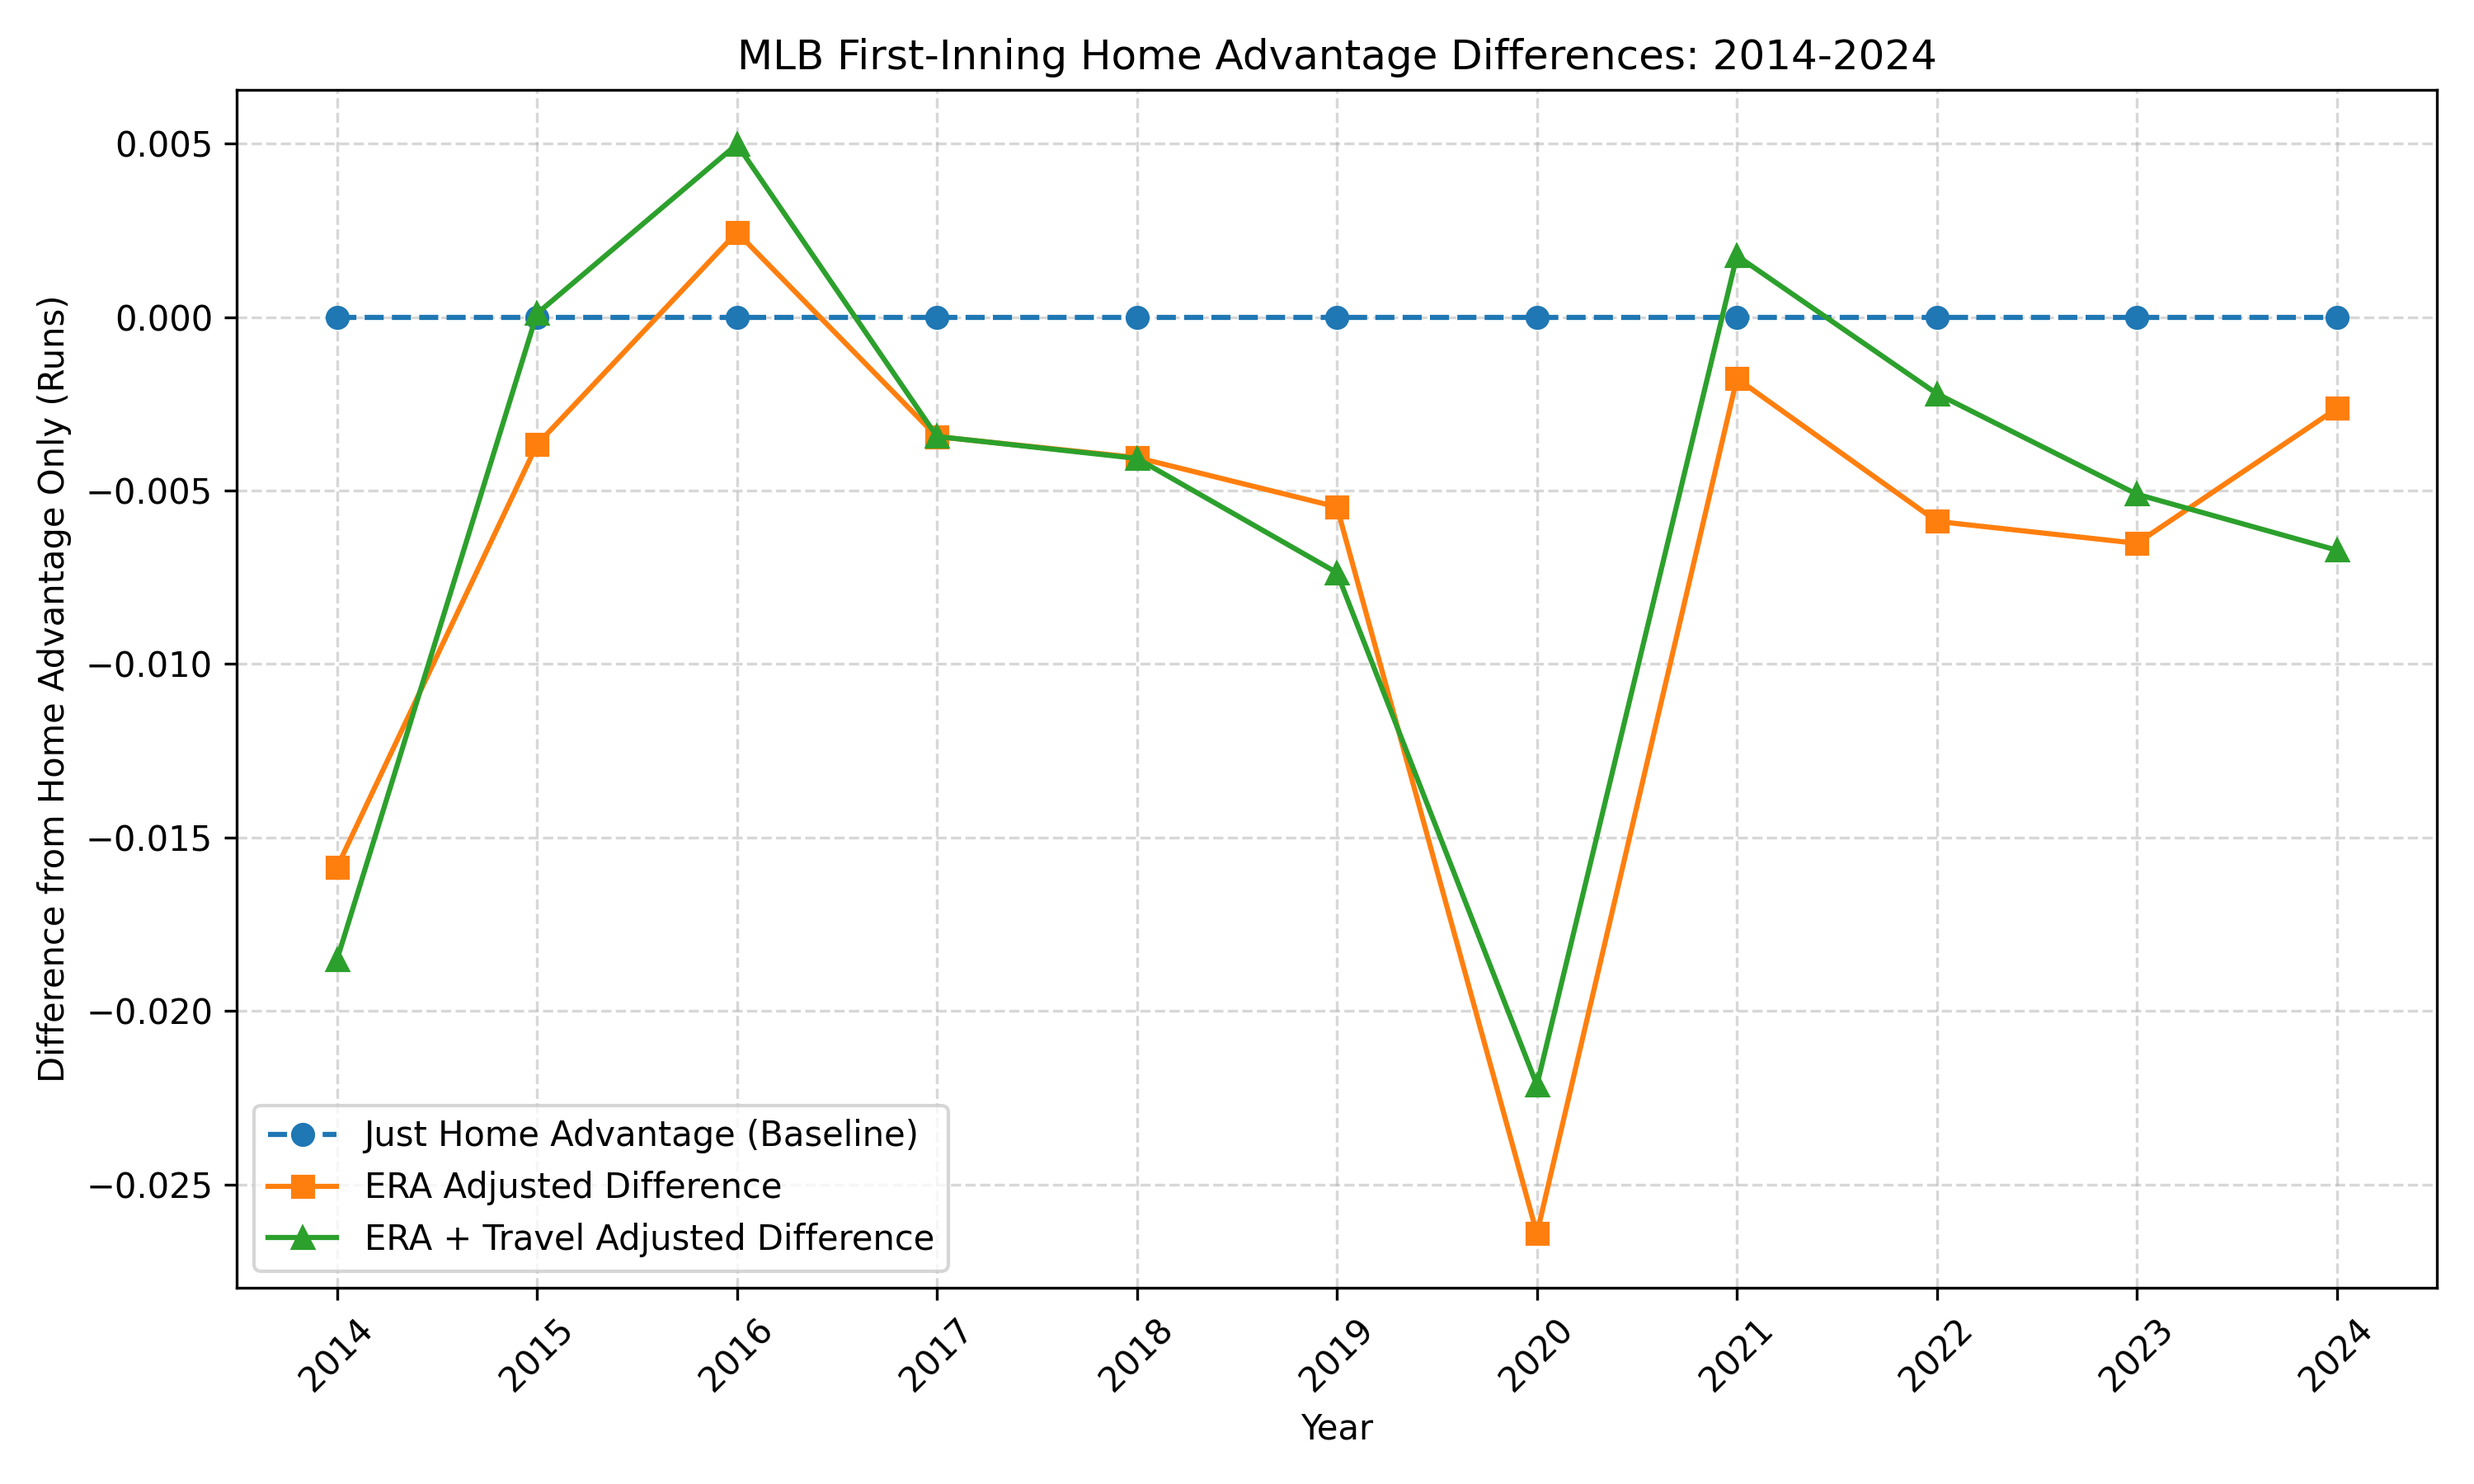
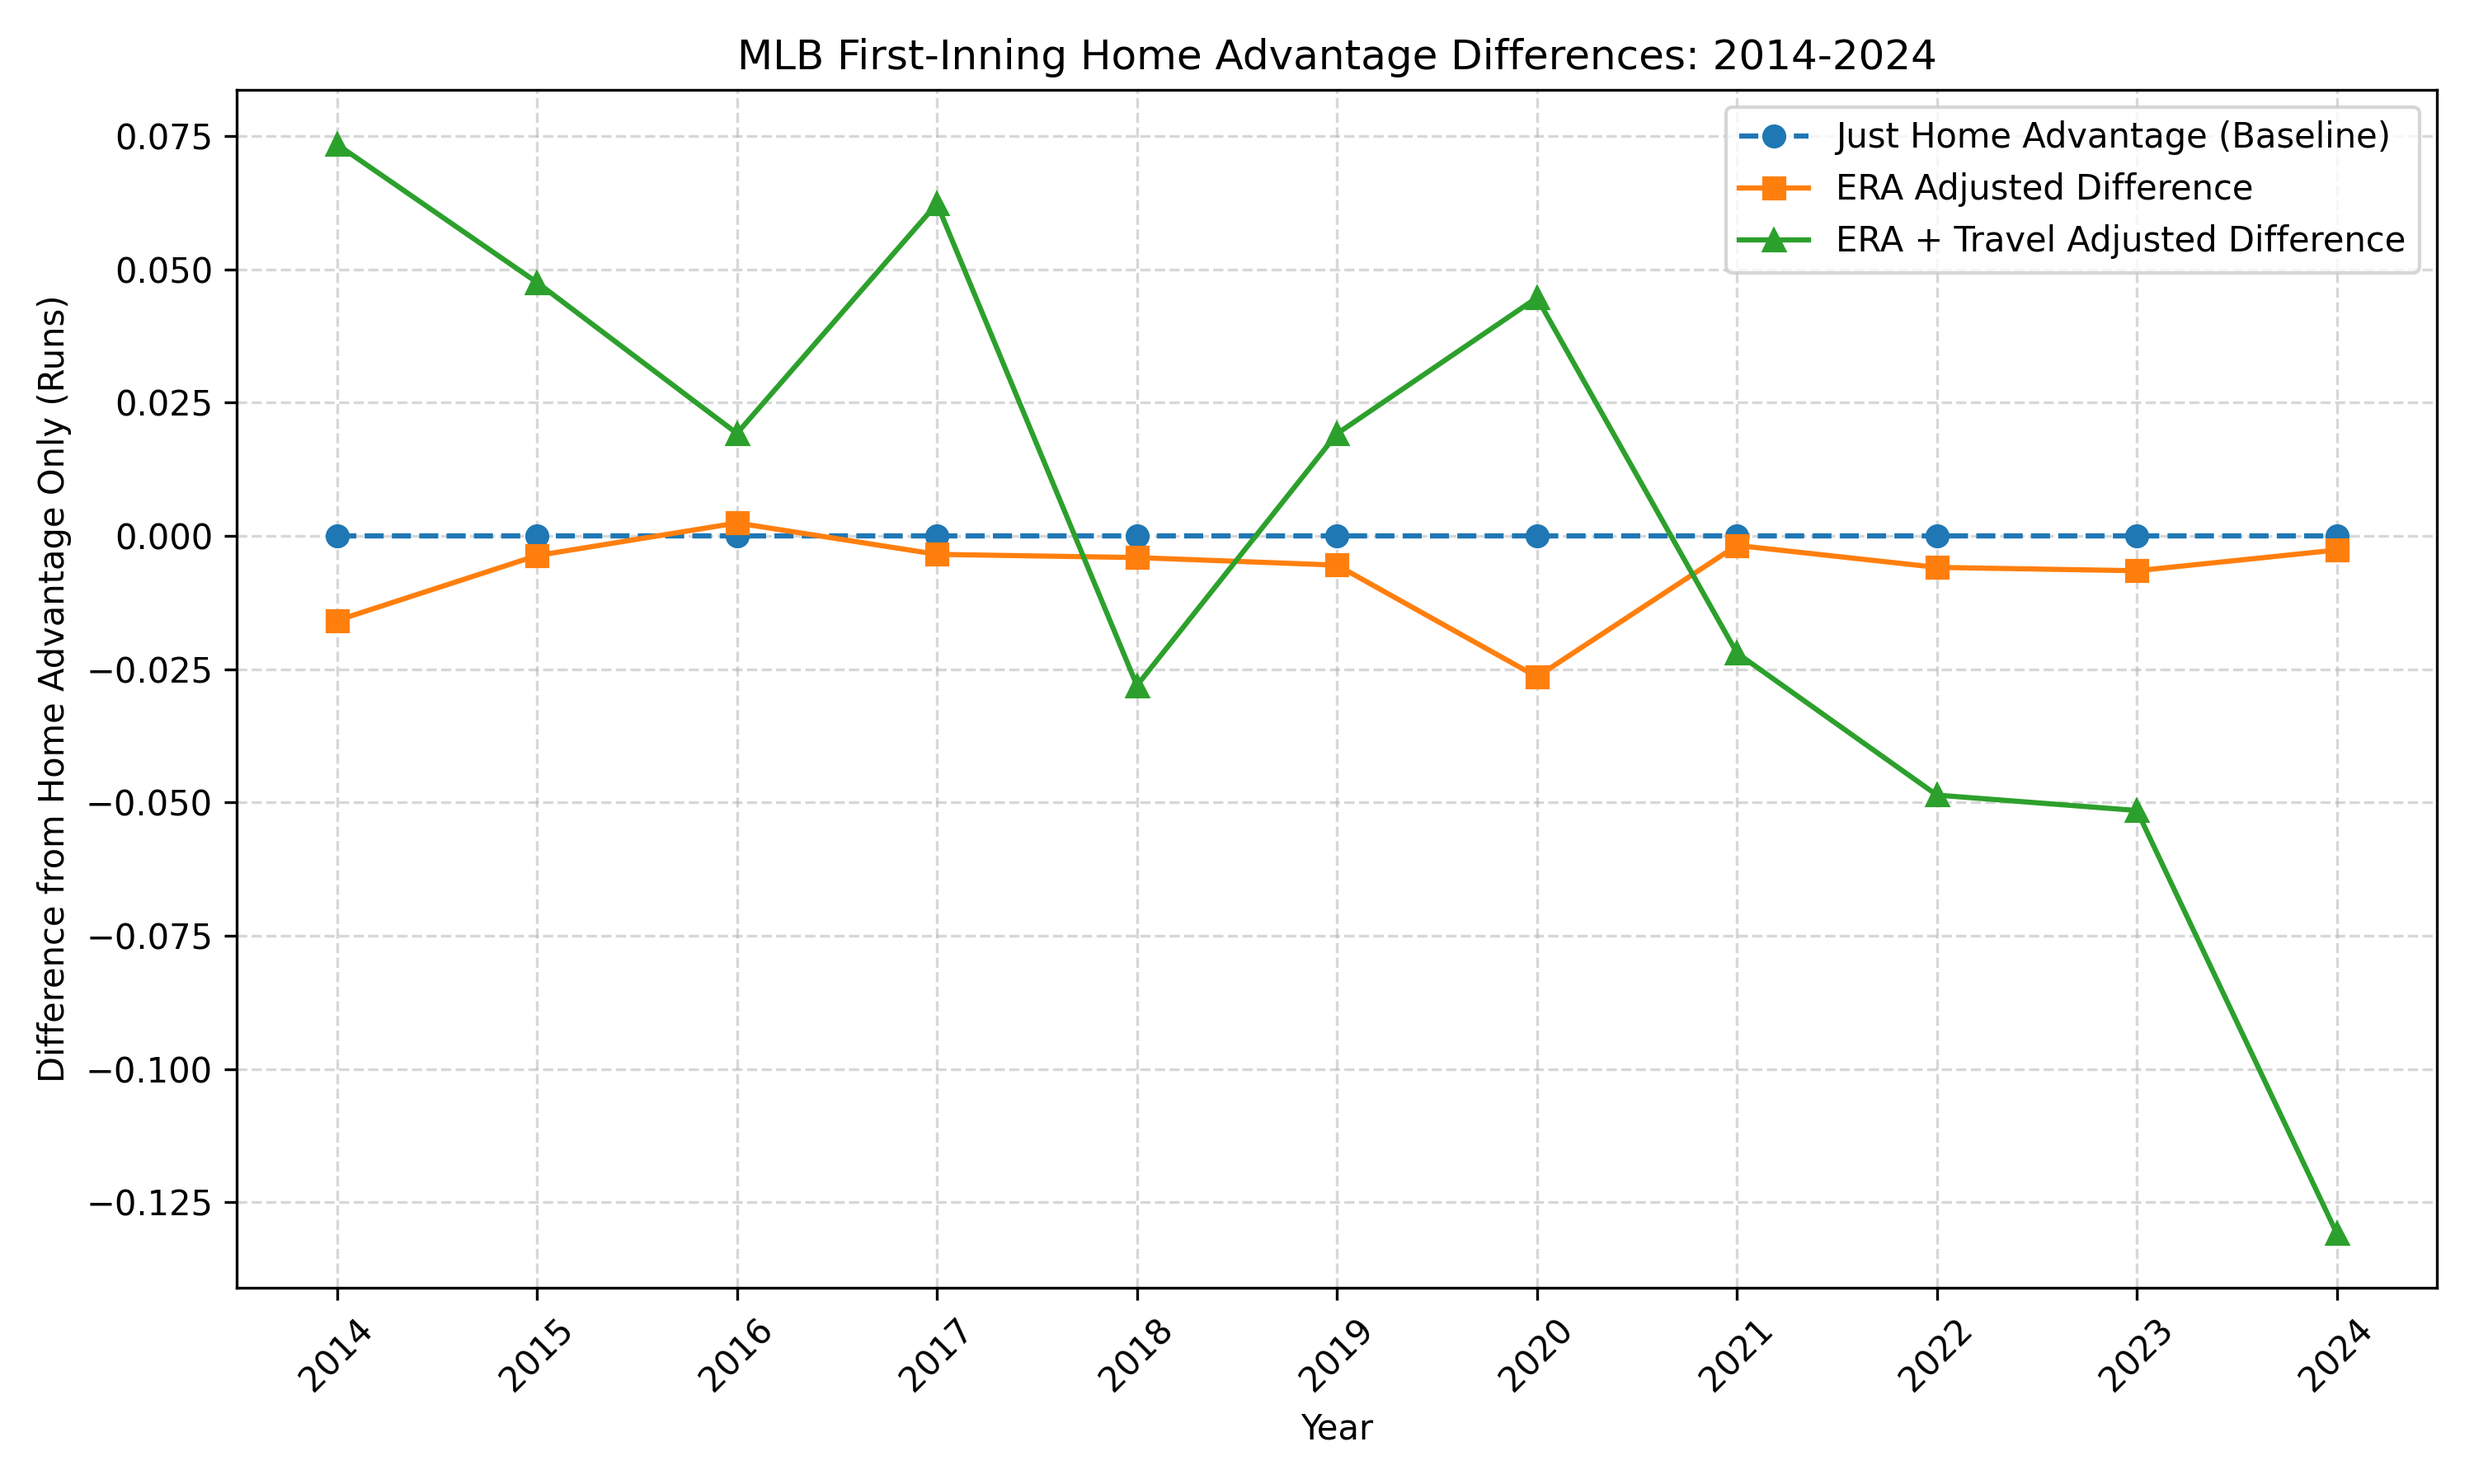
charts w/ just first games

diff --git a/all_in_one.py b/all_in_one.py
@@ -46,7 +46,7 @@ for year in years:
     print(f"\nProcessing {year}")
     games = pd.read_csv(game_file)
 
-    # --- Extract game dates ---
+    # --- Extract and sort by date ---
     games["date"] = games["game_id"].apply(lambda x: pd.to_datetime(x[3:11], format="%Y%m%d"))
     games = games.sort_values("date").reset_index(drop=True)
 
@@ -67,58 +67,87 @@ for year in years:
             games.at[idx, "visiting_last_location"] = last_location[away]
         last_location[away] = home
 
-    # --- Compute travel distances ---
-    home_travel, vis_travel = [], []
+    # --- Compute travel distances (first game of series only) ---
+    home_travel = [0.0]
+    vis_travel = [0.0]
 
-    for _, row in games.iterrows():
-        home_last = row["home_last_location"]
-        vis_last = row["visiting_last_location"]
-        home_team = row["hometeam"]
+    for i in range(1, len(games)):
+        curr = games.iloc[i]
+        prev = games.iloc[i - 1]
 
-        if home_last == "N/A" or vis_last == "N/A":
-            home_travel.append(np.nan)
-            vis_travel.append(np.nan)
-            continue
+        # Detect if this is the first game of a new series:
+        # Different opponent or different home stadium = new series
+        new_series = not (
+            curr["hometeam"] == prev["hometeam"]
+            and curr["visteam"] == prev["visteam"]
+            and curr["hometeam"] == prev["hometeam"]
+        )
 
-        try:
-            lat_home_last = float(stad_dict[home_last]["lat"])
-            lon_home_last = float(stad_dict[home_last]["lon"])
-            lat_home_team = float(stad_dict[home_team]["lat"])
-            lon_home_team = float(stad_dict[home_team]["lon"])
-            home_travel.append(haversine(lat_home_last, lon_home_last, lat_home_team, lon_home_team))
+        if new_series:
+            home_last = curr["home_last_location"]
+            vis_last = curr["visiting_last_location"]
+            home_team = curr["hometeam"]
+            away_team = curr["visteam"]
 
-            lat_vis_last = float(stad_dict[vis_last]["lat"])
-            lon_vis_last = float(stad_dict[vis_last]["lon"])
-            vis_travel.append(haversine(lat_vis_last, lon_vis_last, lat_home_team, lon_home_team))
-        except (KeyError, ValueError):
-            home_travel.append(np.nan)
-            vis_travel.append(np.nan)
+            if home_last == "N/A" or vis_last == "N/A":
+                home_travel.append(np.nan)
+                vis_travel.append(np.nan)
+                continue
 
-    games["home_travel"] = pd.to_numeric(home_travel, errors="coerce") + 1e-6
-    games["vis_travel"] = pd.to_numeric(vis_travel, errors="coerce") + 1e-6
+            try:
+                lat_home_last = float(stad_dict[home_last]["lat"])
+                lon_home_last = float(stad_dict[home_last]["lon"])
+                lat_home_team = float(stad_dict[home_team]["lat"])
+                lon_home_team = float(stad_dict[home_team]["lon"])
+                home_travel.append(haversine(lat_home_last, lon_home_last, lat_home_team, lon_home_team))
 
-    # --- Filter only valid travel rows ---
+                lat_vis_last = float(stad_dict[vis_last]["lat"])
+                lon_vis_last = float(stad_dict[vis_last]["lon"])
+                vis_travel.append(haversine(lat_vis_last, lon_vis_last, lat_home_team, lon_home_team))
+            except (KeyError, ValueError):
+                home_travel.append(np.nan)
+                vis_travel.append(np.nan)
+        else:
+            # Same series — no travel
+            home_travel.append(0.0)
+            vis_travel.append(0.0)
+
+    # --- Assign to DataFrame ---
+    games["home_travel"] = pd.Series(pd.to_numeric(home_travel, errors="coerce")).fillna(0.0)
+    games["vis_travel"] = pd.Series(pd.to_numeric(vis_travel, errors="coerce")).fillna(0.0)
+
+    # --- Log-transform ---
+    games["home_travel_log"] = np.log1p(games["home_travel"])
+    games["vis_travel_log"] = np.log1p(games["vis_travel"])
+
+    # --- Filter only valid travel rows and skip 0.0 both sides ---
     data_filtered = games[
-        ~((games['home_last_location'] == "N/A") | (games['visiting_last_location'] == "N/A"))
+        ~((games["home_last_location"] == "N/A") | (games["visiting_last_location"] == "N/A")) &
+        ~((games["home_travel"] <= 1e-6) & (games["vis_travel"] <= 1e-6))
     ].copy()
 
     # --- Prepare home and away rows ---
-    home_df = data_filtered[['game_id', 'hometeam', 'home_first_inning_runs', 'vis_ERA', 'home_travel']].rename(
-        columns={'hometeam': 'team_id',
-                 'home_first_inning_runs': 'first_inning_runs',
-                 'vis_ERA': 'opp_ERA',
-                 'home_travel': 'travel'}
+    home_df = data_filtered[['game_id', 'hometeam', 'home_first_inning_runs', 'vis_ERA', 'home_travel_log']].rename(
+        columns={
+            'hometeam': 'team_id',
+            'home_first_inning_runs': 'first_inning_runs',
+            'vis_ERA': 'opp_ERA',
+            'home_travel_log': 'travel'
+        }
     )
     home_df['is_home'] = 1
 
-    away_df = data_filtered[['game_id', 'visteam', 'visiting_first_inning_runs', 'home_ERA', 'vis_travel']].rename(
-        columns={'visteam': 'team_id',
-                 'visiting_first_inning_runs': 'first_inning_runs',
-                 'home_ERA': 'opp_ERA',
-                 'vis_travel': 'travel'}
+    away_df = data_filtered[['game_id', 'visteam', 'visiting_first_inning_runs', 'home_ERA', 'vis_travel_log']].rename(
+        columns={
+            'visteam': 'team_id',
+            'visiting_first_inning_runs': 'first_inning_runs',
+            'home_ERA': 'opp_ERA',
+            'vis_travel_log': 'travel'
+        }
     )
     away_df['is_home'] = 0
 
+    # --- Combine ---
     data_nb = pd.concat([home_df, away_df], ignore_index=True)
     data_nb = data_nb.dropna(subset=['first_inning_runs', 'opp_ERA', 'travel'])
 
@@ -134,7 +163,6 @@ for year in years:
         model = NegativeBinomial(y, X)
         result = model.fit(disp=False)
     except:
-        # fallback to Poisson
         poisson_model = sm.GLM(y, X, family=sm.families.Poisson())
         result = poisson_model.fit(cov_type='HC3')
 
@@ -171,6 +199,6 @@ for year in years:
 # --- Save all results ---
 if all_rows:
     pd.DataFrame(all_rows).to_csv(output_file, index=False)
-    print(f"\nAll results saved to {output_file}")
+    print(f"\n Results saved to {output_file}")
 else:
     print("No results to save")

diff --git a/visualize_three.py b/visualize_three.py
@@ -21,47 +21,39 @@ df.rename(columns={
 # Filter 2014-2024 safely
 df_plot = df.loc[(df['year'] >= 2014) & (df['year'] <= 2024)].copy()
 
-# ---------------------
-# Original plot (3 lines)
-# ---------------------
-plt.figure(figsize=(10,6))
-plt.plot(df_plot['year'], df_plot['home_advantage_only'], marker='o', label='Just Home Advantage')
-plt.plot(df_plot['year'], df_plot['home_advantage_era'], marker='s', label='Home Advantage + ERA')
-plt.plot(df_plot['year'], df_plot['home_advantage_era_travel'], marker='^', label='Home Advantage + ERA + Travel')
-
-plt.xlabel("Year")
-plt.ylabel("Estimated Home Advantage (Runs)")
-plt.title("MLB First-Inning Home Advantage: 2014-2024")
-plt.xticks(df_plot['year'], rotation=45)
-plt.grid(True, linestyle='--', alpha=0.5)
-plt.legend()
-plt.tight_layout()
-
-# Save the first plot
-plt.savefig("/Users/kevinhe/orioles-project/home_advantage_full.png", dpi=300)
-plt.close()
-
-# ---------------------
-# Difference plot (baseline at 0)
-# ---------------------
+# Compute differences
 df_plot['era_diff'] = df_plot['home_advantage_era'] - df_plot['home_advantage_only']
 df_plot['era_travel_diff'] = df_plot['home_advantage_era_travel'] - df_plot['home_advantage_only']
 
-plt.figure(figsize=(10,6))
-plt.plot(df_plot['year'], [0]*len(df_plot), marker='o', linestyle='--', label='Just Home Advantage (Baseline)')
-plt.plot(df_plot['year'], df_plot['era_diff'], marker='s', label='ERA Adjusted Difference')
-plt.plot(df_plot['year'], df_plot['era_travel_diff'], marker='^', label='ERA + Travel Adjusted Difference')
+# ---------------------
+# Combined figure with 2 subplots
+# ---------------------
+fig, axes = plt.subplots(nrows=2, ncols=1, figsize=(10,10), sharex=True)
 
-plt.xlabel("Year")
-plt.ylabel("Difference from Home Advantage Only (Runs)")
-plt.title("MLB First-Inning Home Advantage Differences: 2014-2024")
+# --- Top plot: full home advantage ---
+axes[0].plot(df_plot['year'], df_plot['home_advantage_only'], marker='o', label='Just Home Advantage')
+axes[0].plot(df_plot['year'], df_plot['home_advantage_era'], marker='s', label='Home Advantage + ERA')
+axes[0].plot(df_plot['year'], df_plot['home_advantage_era_travel'], marker='^', label='Home Advantage + ERA + Travel')
+axes[0].set_ylabel("Estimated Home Advantage (Runs)")
+axes[0].set_title("MLB First-Inning Home Advantage: 2014-2024 (Only first games of series)")
+axes[0].grid(True, linestyle='--', alpha=0.5)
+axes[0].legend()
+
+# --- Bottom plot: differences from baseline ---
+axes[1].plot(df_plot['year'], [0]*len(df_plot), marker='o', linestyle='--', label='Baseline: Just Home Advantage')
+axes[1].plot(df_plot['year'], df_plot['era_diff'], marker='s', label='ERA Adjusted Difference')
+axes[1].plot(df_plot['year'], df_plot['era_travel_diff'], marker='^', label='ERA + Travel Adjusted Difference')
+axes[1].set_xlabel("Year")
+axes[1].set_ylabel("Difference from Home Advantage Only (Runs)")
+axes[1].set_title("MLB First-Inning Home Advantage Differences: 2014-2024 (Only first games of series)")
+axes[1].grid(True, linestyle='--', alpha=0.5)
+axes[1].legend()
+
 plt.xticks(df_plot['year'], rotation=45)
-plt.grid(True, linestyle='--', alpha=0.5)
-plt.legend()
 plt.tight_layout()
 
-# Save the second plot
-plt.savefig("/Users/kevinhe/orioles-project/home_advantage_diff.png", dpi=300)
+# Save combined figure
+plt.savefig("/Users/kevinhe/orioles-project/home_advantage_combined.png", dpi=300)
 plt.close()
 
-print("Plots saved to /Users/kevinhe/orioles-project/")
+print("Combined plot saved to /Users/kevinhe/orioles-project/home_advantage_combined.png")
